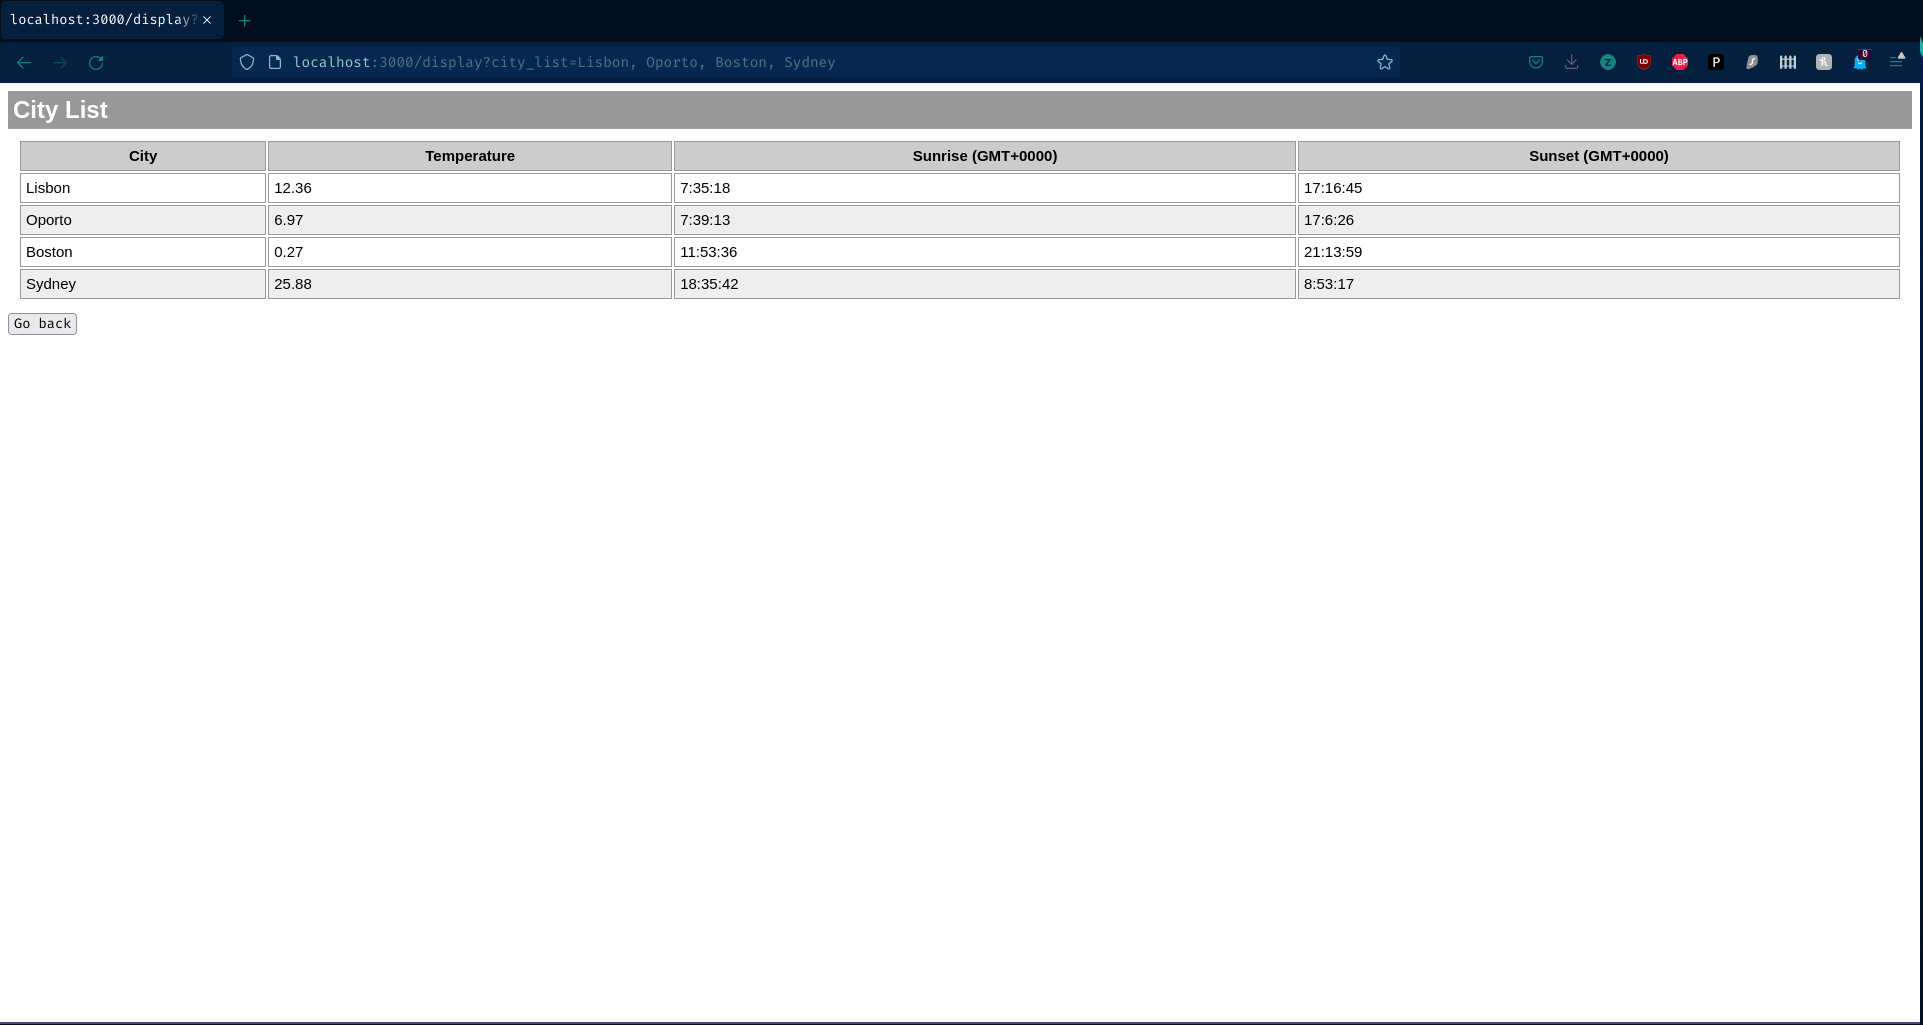
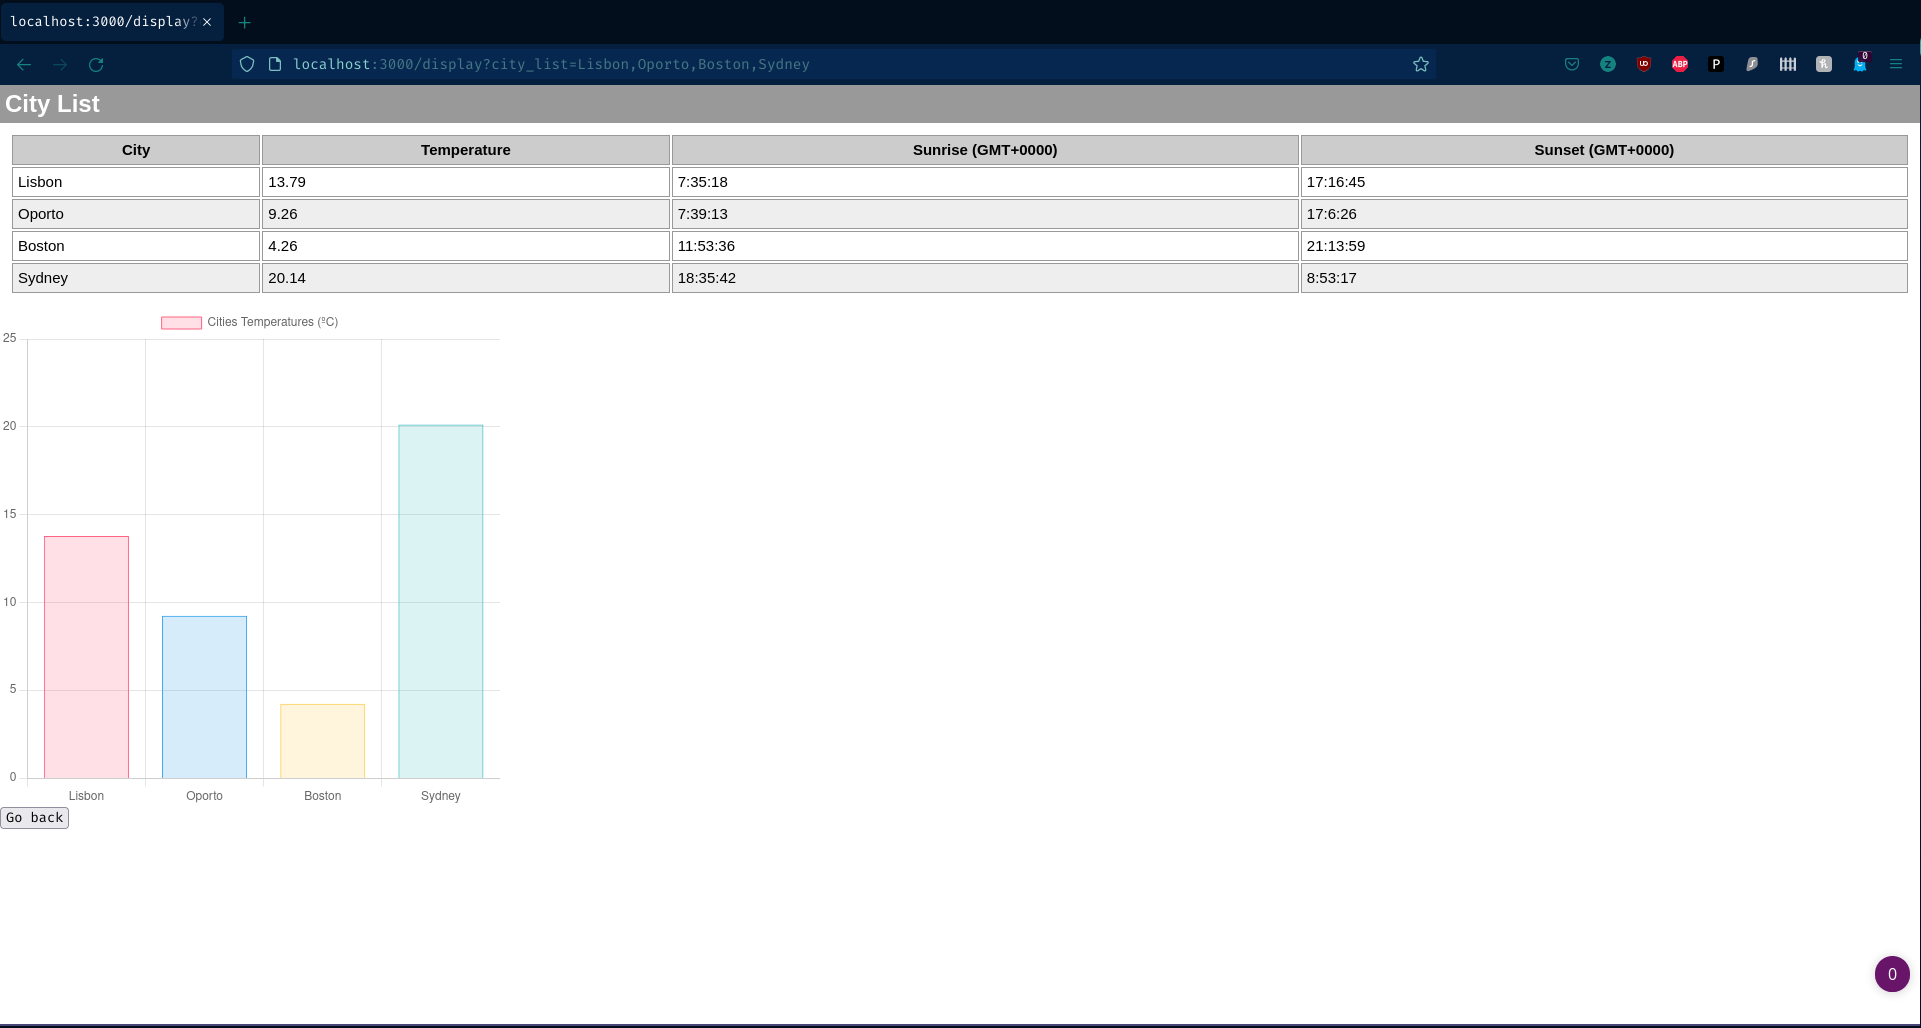
fixed bar charts and readme images

Changed region(s): [[0.0, 0.0, 1.0, 0.3434], [0.0, 0.4059, 0.2499, 0.8117], [0.9682, 0.9054, 0.9995, 0.9678]]

diff --git a/city-data-display/src/index.js b/city-data-display/src/index.js
@@ -47,7 +47,7 @@ app.get('/display', async (req, res) => {
     const data = (await axios.get(`http://${backend}:${backend_port}/cdg/city_data?city_list=${req.query.city_list}`)).data
     expressDebug('data requested')
     logger.debug(`data`)
-    res.render('cities_display', { 'data':data})
+    res.render('cities_display', { 'cities':data})
 })
 
 

diff --git a/city-data-display/public/js/app.js b/city-data-display/public/js/app.js
@@ -6,6 +6,7 @@ const search = document.querySelector('input')
 //    window.location.replace(`http://localhost:3000/`)
 //}
 
+
 form.addEventListener('submit', (event) => {
     event.preventDefault()
     const city_names = search.value

diff --git a/city-data-display/public/css/styles.css b/city-data-display/public/css/styles.css
@@ -34,3 +34,9 @@ td a:active {
     color: #902;
     text-decoration: none;
 }
+html, body, #container {
+    width: 100%;
+    height: 100%;
+    margin: 0;
+    padding: 0;
+  }
